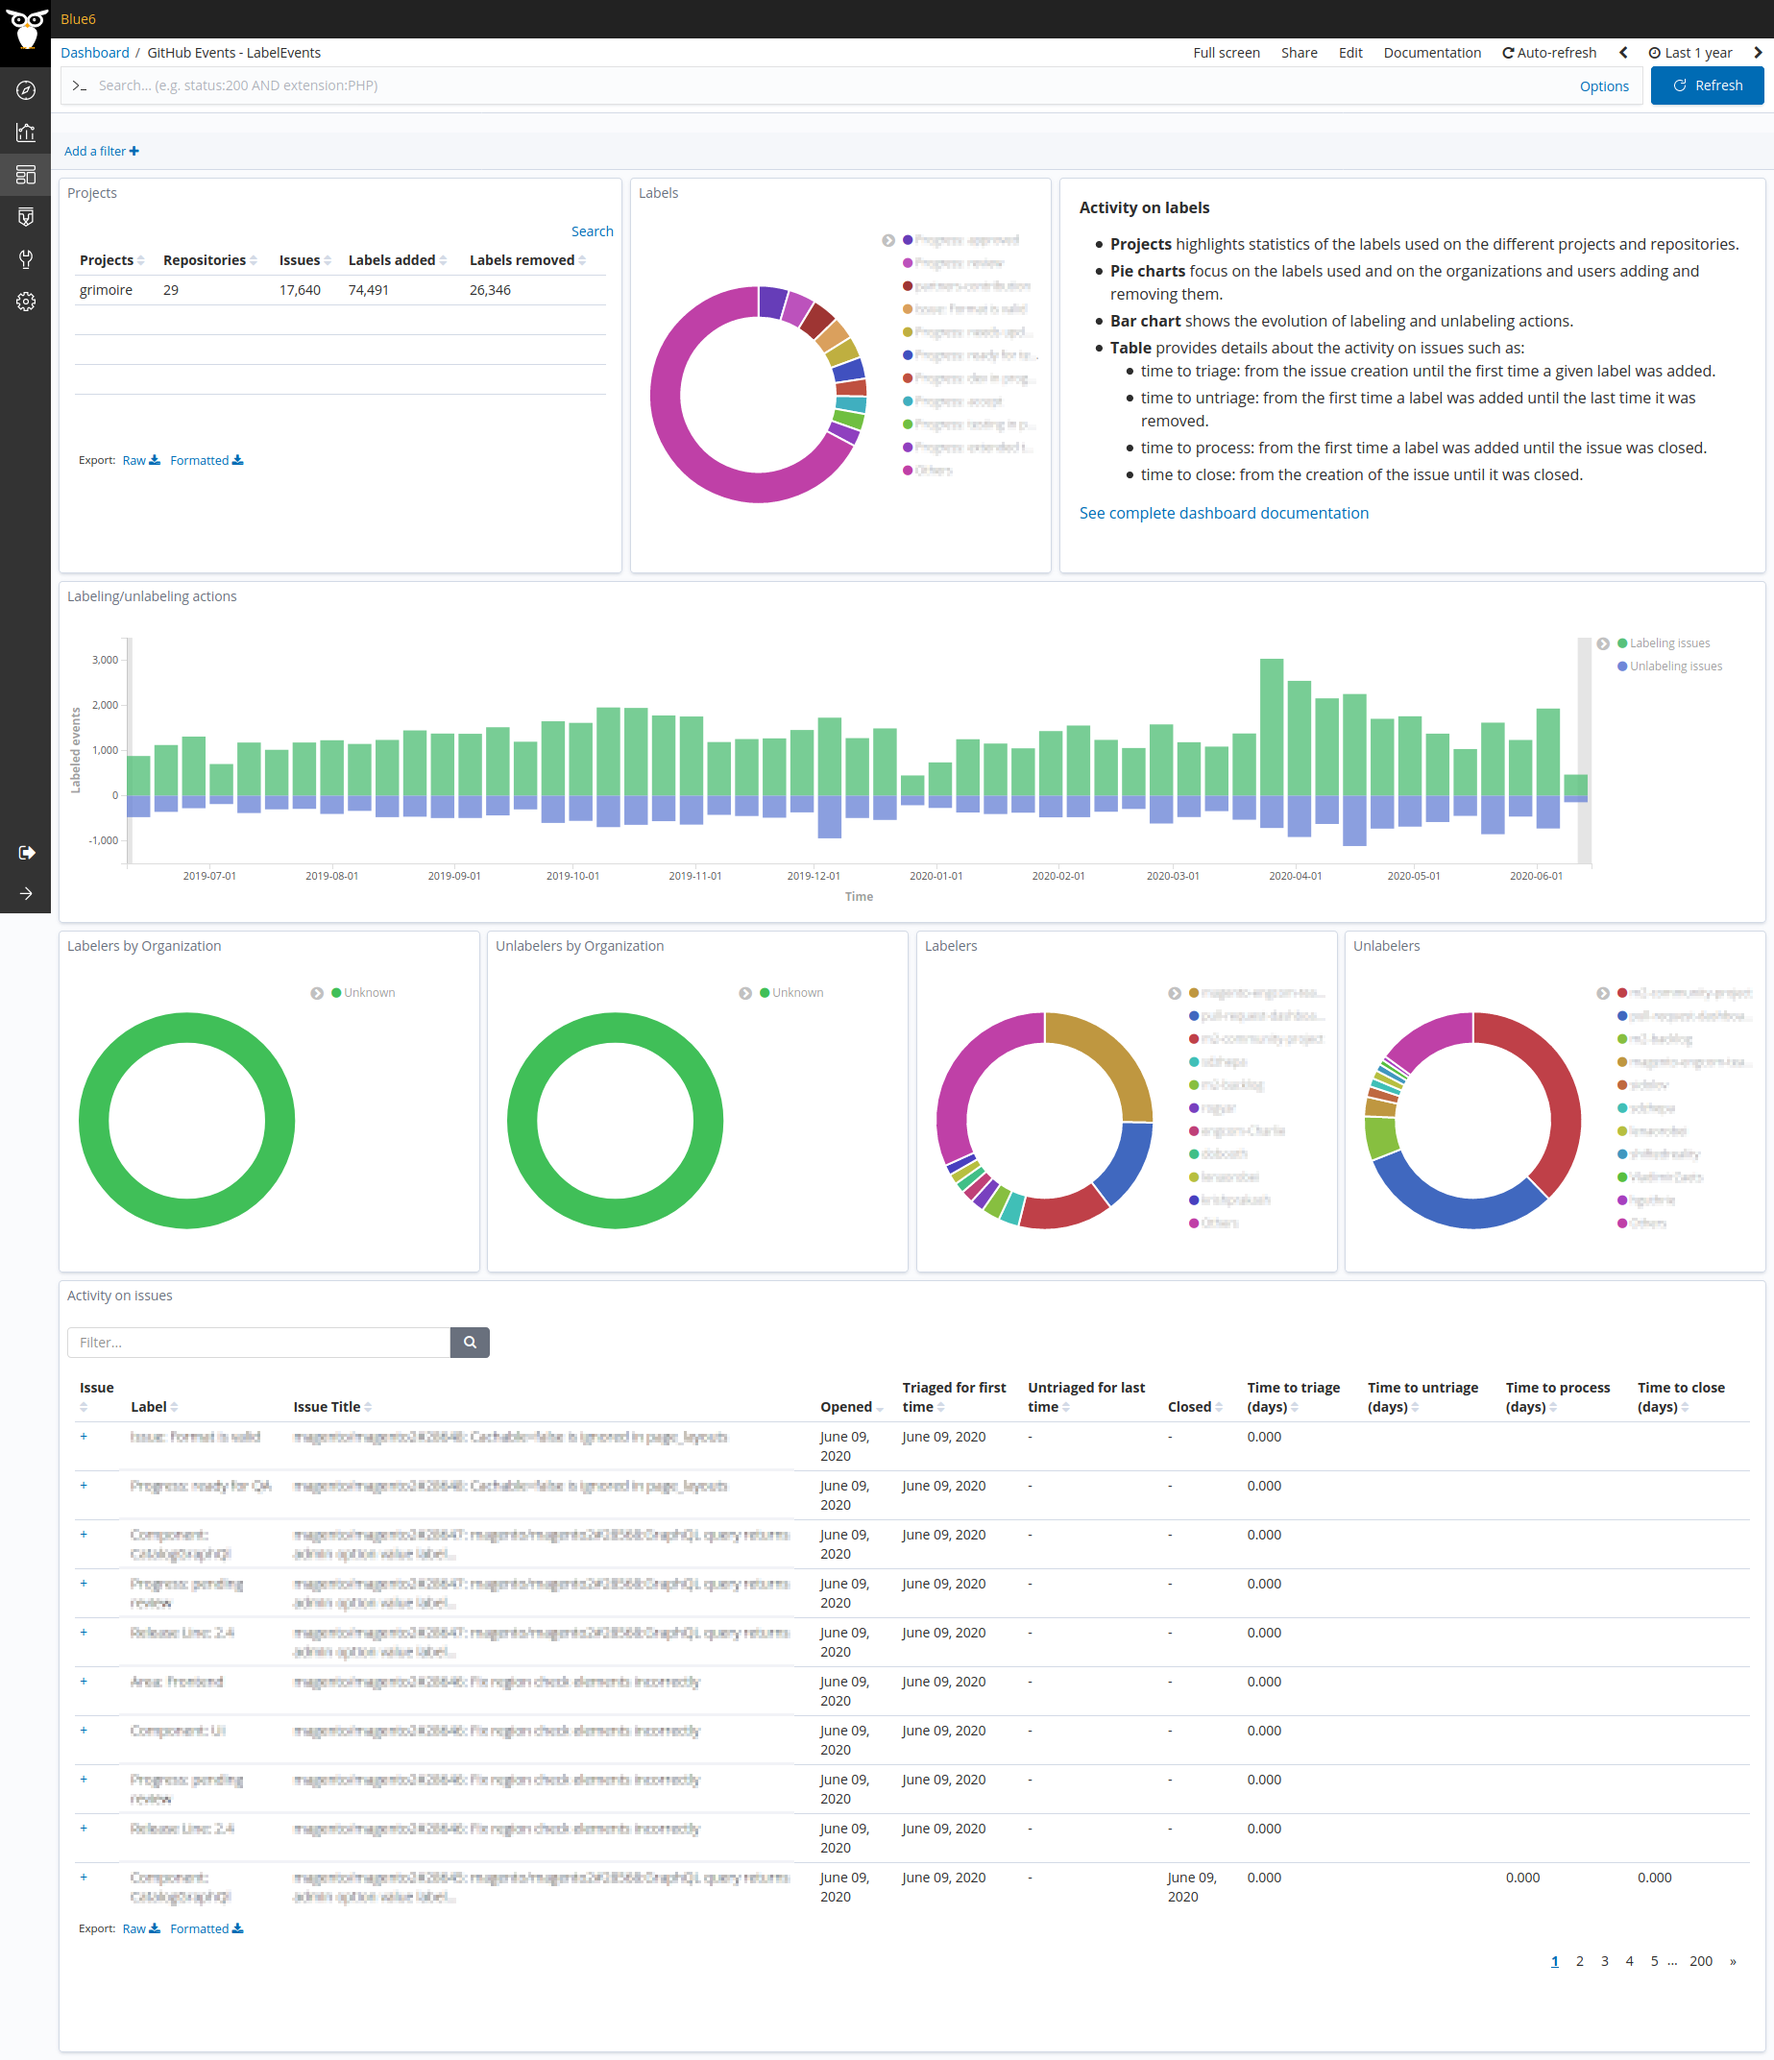
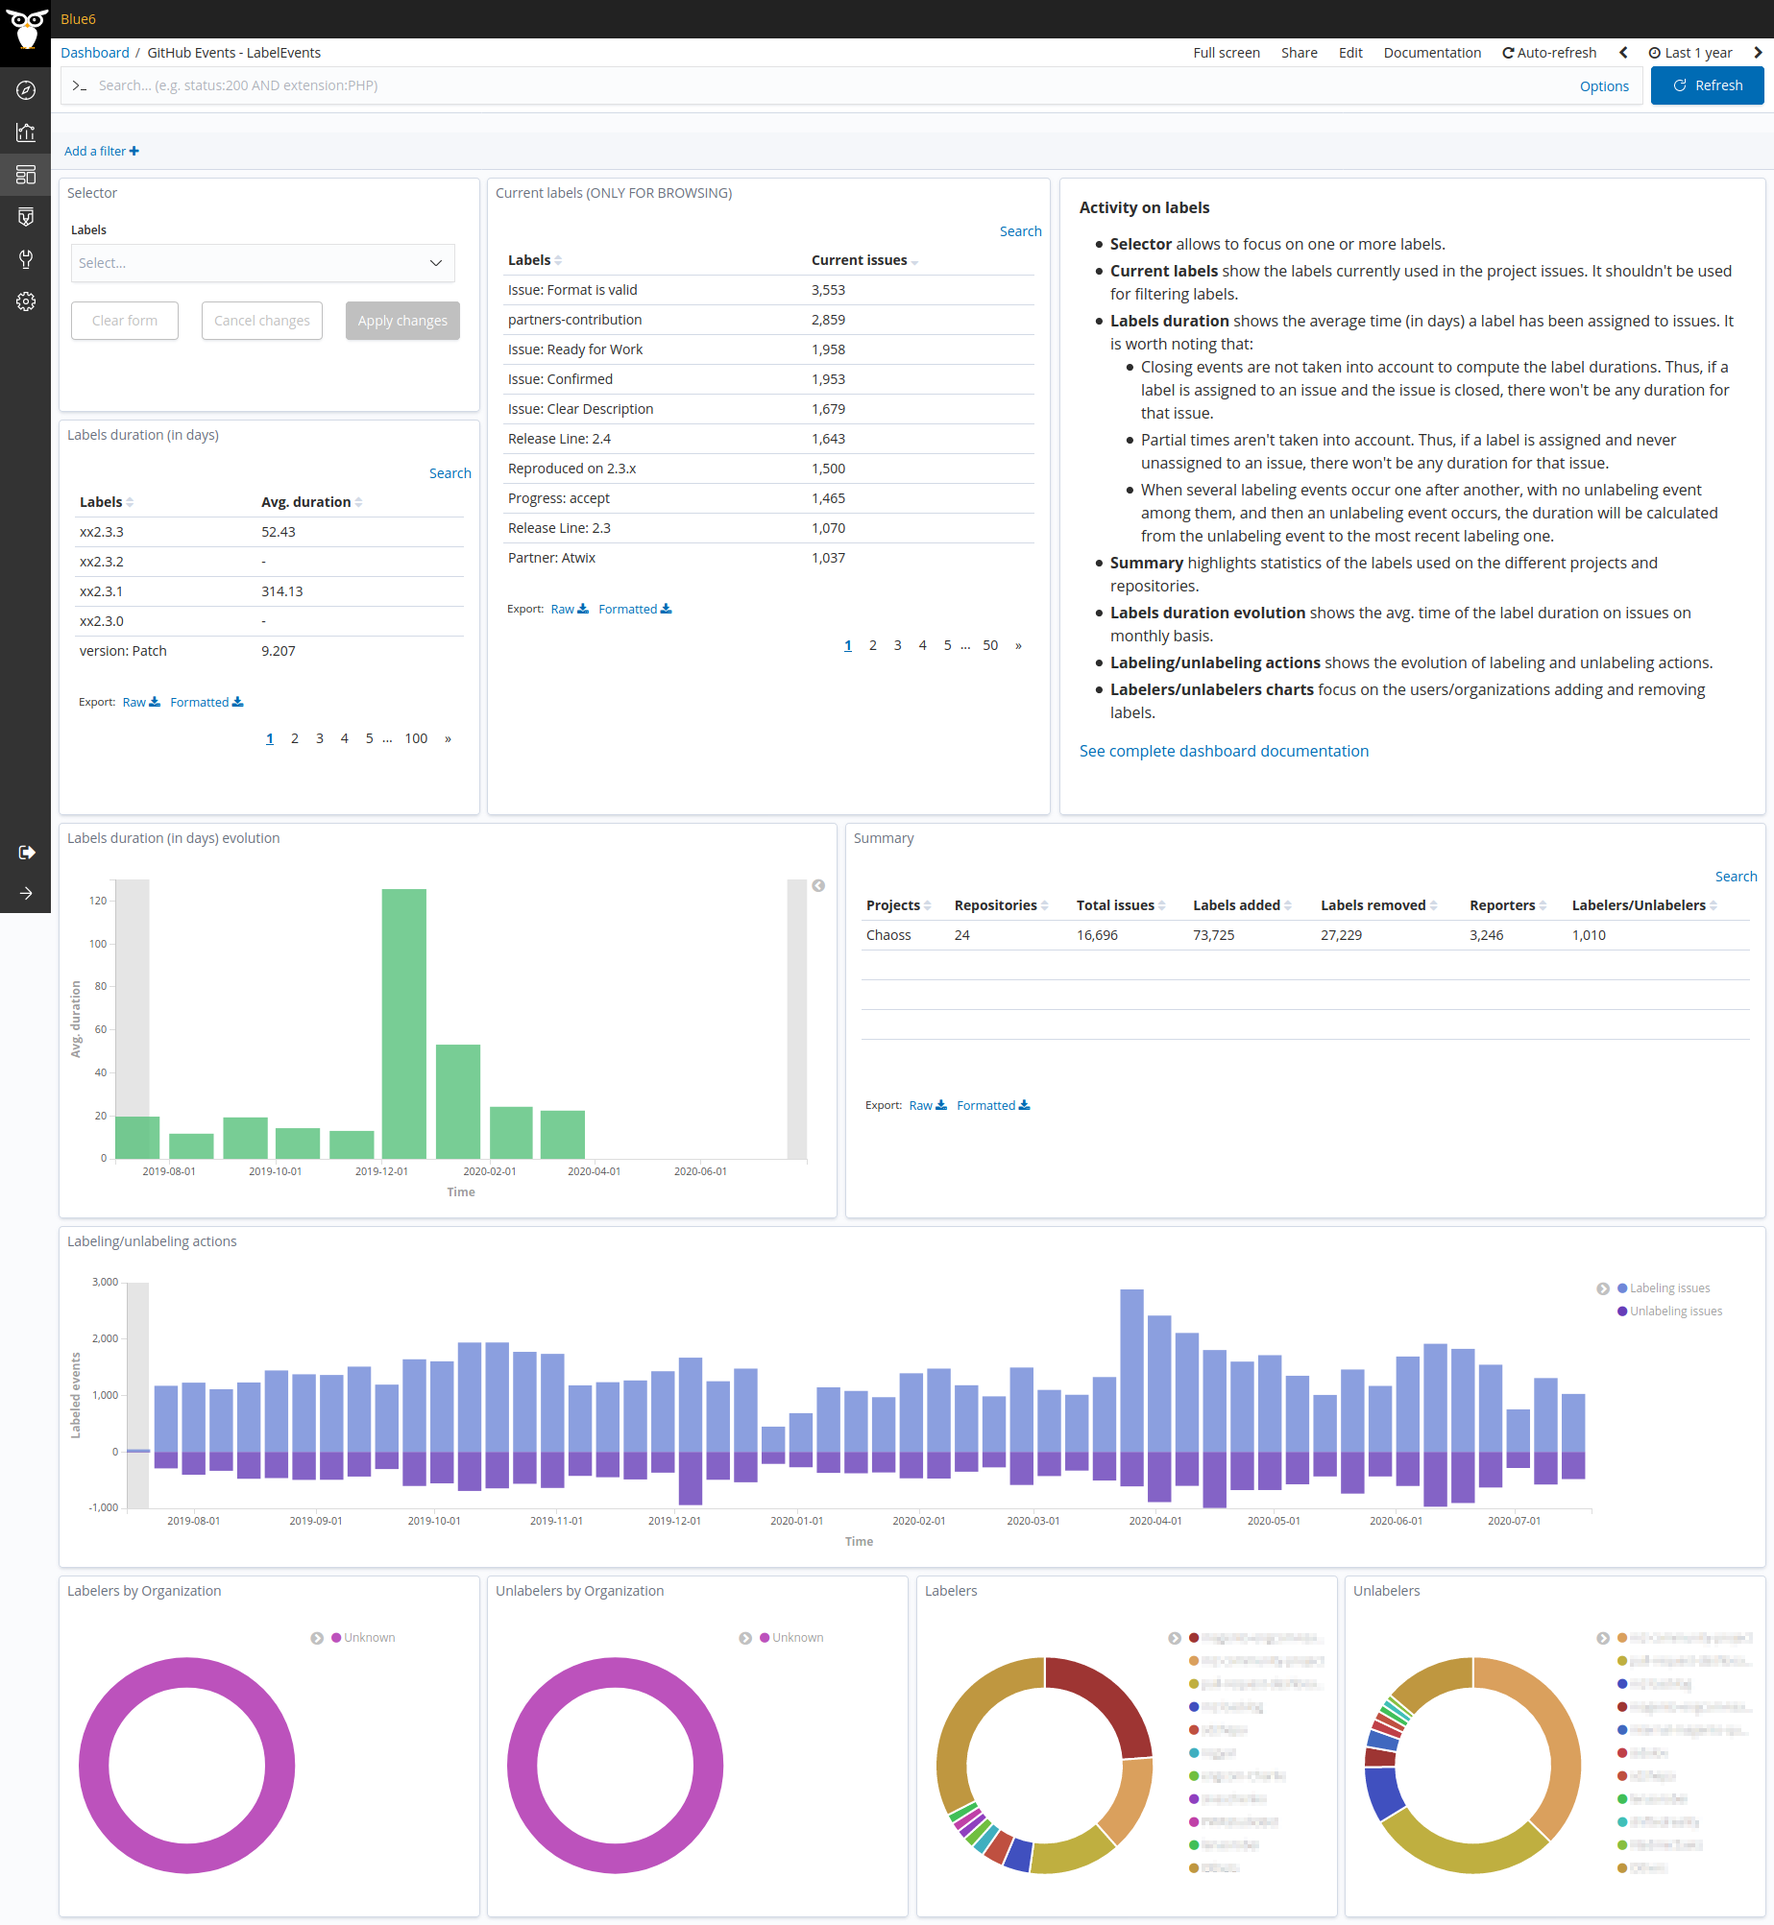
[github-label-events] Improve dashboard
This code provides new visualizations to:
- know the active labels in the project (see Current labels chart)
- show the avg time (in days) and its evolution a label has been
  assigned to an issue (see Labels duration charts)
- filter labels via a selector widget

The table containing the details about the activity on
issues have been removed.

Documentation has been updated accordingly.

diff --git a/docs/_panels/github-label-events.md b/docs/_panels/github-label-events.md
@@ -1,5 +1,5 @@
 ---
-title: GitHub label-related events
+title: GitHub Events - LabelEvents
 description: metrics focused on the GitHub labeled/unlabeled events.
 author: Bitergia
 screenshot: sigils/github-label-events.png
@@ -11,11 +11,23 @@ layout: panel
 This dashboard shows information related to the activity for labeling issues and pull requests. Such information
 is derived from the labeling and unlabeling events returned by the GitHub API. The widgets in the dashboard are described below.
 
-- **Projects** highlights statistics of the labels used on the different projects and repositories.
-- **Pie charts** focus on the labels used and on the organizations and users adding and removing them.
-- **Bar chart** shows the evolution of labeling and unlabeling actions.
-- **Table** provides details about the activity on issues such as:
-  - time to triage: from the issue creation until the first time a given label was added.
-  - time to untriage: from the first time a label was added until the last time it was removed.
-  - time to process: from the first time a label was added until the issue was closed.
-  - time to close: from the creation of the issue until it was closed.
+- **Selector** allows to focus on one or more labels.
+- **Current labels** show the labels currently used in the project issues. It shouldn't be used for filtering labels.
+- **Labels duration** shows the average time (in days) a label has been assigned to issues. It is worth noting that:
+  - Closing events are not taken into account to compute the label durations. Thus, if a label is assigned to an issue and the issue is closed, there won't be any duration for that issue.
+  - Partial times aren't taken into account. Thus, if a label is assigned and never unassigned to an issue, there won't be any duration for that issue.
+  - When several labeling events occur one after another, with no unlabeling event among them, and then an unlabeling event occurs, the duration will be calculated from the unlabeling event to the most recent labeling one.  
+- **Summary** highlights statistics of the labels used on the different projects and repositories.
+- **Labels duration evolution** shows the avg. time of the label duration on issues on monthly basis.
+- **Labeling/unlabeling actions** shows the evolution of labeling and unlabeling actions.
+- **Labelers/unlabelers charts** focus on the users/organizations adding and removing labels.
+
+### Building the Dashboard: details about Index and Fields
+
+This dashboard is built on top of a search on [github_events] index which includes labeling, unlabeling and closing events. It is worth mentioning that the visualization
+`Current labels` uses the issue labels information (attribute `issue_labels`) to show the labels currently in use, while the other visualizations rely on the label included
+within the event (attribute `label`). Thus, the former shouldn't be used for focusing on a target label, but just for browsing purposes. Furthermore, the attribute `duration_from_previous_event` is empty
+by default, it can be calculated via the ELK study `enrich_duration_analysis` (see details at in the [GitHubQL enricher]).
+
+[github_events]: https://github.com/chaoss/grimoirelab-elk/blob/master/schema/github_events.csv
+[GitHubQL enricher]: https://github.com/chaoss/grimoirelab-elk/blob/master/grimoire_elk/enriched/githubql.py
